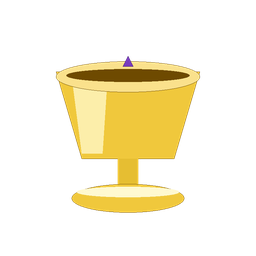
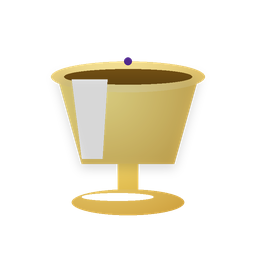
feat(olympus): 符号改为简洁球体渐变风格 PNG，前端切换 img 引用

Changed region(s): [[0.1875, 0.25, 0.8125, 0.8438], [0.3438, 0.2188, 0.6562, 0.2812]]

diff --git a/src/js/game-detail.js b/src/js/game-detail.js
@@ -357,37 +357,7 @@
     '</svg>';
   }
 
-  function polar(cx,cy,r,d){var a=(d-90)*Math.PI/180;return [cx+r*Math.cos(a),cy+r*Math.sin(a)];}
-  function fmt(p){return p[0].toFixed(2)+','+p[1].toFixed(2);}
-  function svgGem(c){var cx=32,cy=32,ro=26,rt=12,o=[],t=[];for(var i=0;i<8;i++){o.push(polar(cx,cy,ro,i*45));t.push(polar(cx,cy,rt,i*45));}
-    var s='<svg viewBox="0 0 64 64" aria-hidden="true">';for(var i=0;i<8;i++){var j=(i+1)%8;s+='<polygon points="'+fmt(t[i])+' '+fmt(t[j])+' '+fmt(o[j])+' '+fmt(o[i])+'" fill="'+c.f[i]+'" stroke="'+c.e+'" stroke-width=".3" stroke-linejoin="round"/>';}
-    var tp='';for(var k=0;k<8;k++)tp+=fmt(t[k])+' ';s+='<polygon points="'+tp.trim()+'" fill="'+c.t+'"/>';
-    s+='<polygon points="'+fmt(t[5])+' '+fmt(t[6])+' '+fmt(t[7])+' 32,32" fill="#fff" opacity=".28"/><polygon points="'+fmt(t[1])+' '+fmt(t[2])+' '+fmt(t[3])+' 32,32" fill="#000" opacity=".12"/>';
-    var op='';for(var m=0;m<8;m++)op+=fmt(o[m])+' ';s+='<polygon points="'+op.trim()+'" fill="none" stroke="'+c.e+'" stroke-width="1.1" stroke-linejoin="round"/><polyline points="'+fmt(o[6])+' '+fmt(o[7])+'" fill="none" stroke="#fff" stroke-width="1.2" opacity=".6" stroke-linecap="round"/></svg>';return s;}
-  var G={red:{t:'#FFC4CD',f:['#FF6B7A','#E63950','#C11030','#8B0A22','#5A0616','#8B0A22','#C11030','#E63950'],e:'#3A0008'},purple:{t:'#DCC8FF',f:['#C098FF','#9B5DE5','#7A3FD1','#5B2BA8','#3D1B6E','#5B2BA8','#7A3FD1','#9B5DE5'],e:'#1A0A3D'},blue:{t:'#B8DEFF',f:['#6BC0FF','#2196F3','#0D6FD1','#0D47A1','#062A66','#0D47A1','#0D6FD1','#2196F3'],e:'#031843'},green:{t:'#C8F0C0',f:['#7CD17E','#43A047','#2E8B33','#1B5E20','#0A3310','#1B5E20','#2E8B33','#43A047'],e:'#052008'},yellow:{t:'#FFEDB0',f:['#FFD84D','#FFC107','#D9A000','#B8860B','#8A6600','#B8860B','#D9A000','#FFC107'],e:'#3D2900'}};
-  function polar(cx,cy,r,d){var a=(d-90)*Math.PI/180;return [cx+r*Math.cos(a),cy+r*Math.sin(a)];}
-  function fmt(p){return p[0].toFixed(2)+','+p[1].toFixed(2);}
-  function svgGem(c){var cx=32,cy=32,ro=26,rt=13,N=12,o=[],t=[];for(var i=0;i<N;i++){o.push(polar(cx,cy,ro,i*(360/N)));t.push(polar(cx,cy,rt,i*(360/N)));}
-    var s='<svg viewBox="0 0 64 64" aria-hidden="true" filter="url(#gdg-shadow)">';
-    for(var i=0;i<N;i++){var j=(i+1)%N;
-      var seg=[c.f[i%c.f.length],c.f[(i+1)%c.f.length]][i%2];
-      s+='<polygon points="'+fmt(t[i])+' '+fmt(t[j])+' '+fmt(o[j])+' '+fmt(o[i])+'" fill="'+seg+'" stroke="'+c.e+'" stroke-width=".3" stroke-linejoin="round"/>';}
-    var tp='';for(var k=0;k<N;k++)tp+=fmt(t[k])+' ';
-    s+='<polygon points="'+tp.trim()+'" fill="'+c.t+'" stroke="'+c.e+'" stroke-width=".4"/>';
-    s+='<polygon points="'+tp.trim()+'" fill="url(#gdg-gemface)"/>';
-    s+='<polyline points="'+fmt(t[N-2])+' '+fmt(t[N-1])+'" fill="none" stroke="#fff" stroke-width="1.4" opacity=".55" stroke-linecap="round"/>';
-    var op='';for(var m=0;m<N;m++)op+=fmt(o[m])+' ';
-    s+='<polygon points="'+op.trim()+'" fill="none" stroke="'+c.e+'" stroke-width="1.1" stroke-linejoin="round"/>';
-    s+='<polyline points="'+fmt(o[N-2])+' '+fmt(o[N-1])+'" fill="none" stroke="#fff" stroke-width="1.2" opacity=".55" stroke-linecap="round"/></svg>';return s;}
-  var G={red:{t:'#FFC4CD',f:['#FF6B7A','#E63950','#C11030','#8B0A22'],e:'#3A0008'},purple:{t:'#DCC8FF',f:['#C098FF','#9B5DE5','#7A3FD1','#5B2BA8'],e:'#1A0A3D'},blue:{t:'#B8DEFF',f:['#6BC0FF','#2196F3','#0D6FD1','#0D47A1'],e:'#031843'},green:{t:'#C8F0C0',f:['#7CD17E','#43A047','#2E8B33','#1B5E20'],e:'#052008'},yellow:{t:'#FFEDB0',f:['#FFD84D','#FFC107','#D9A000','#B8860B'],e:'#3D2900'}};
-  var SYMBOL_SVG = {
-    zeus:'<svg viewBox="0 0 64 64" aria-hidden="true" filter="url(#gdg-shadow)"><circle cx="32" cy="32" r="29" fill="url(#gdg-disc-purple)"/><circle cx="32" cy="32" r="29" fill="none" stroke="url(#gdg-metal-gold)" stroke-width="1.8"/><circle cx="32" cy="32" r="26" fill="none" stroke="#FFF4C8" stroke-width=".5" opacity=".45"/><ellipse cx="32" cy="34" rx="12" ry="14" fill="#F2D9B0"/><ellipse cx="32" cy="34" rx="12" ry="14" fill="none" stroke="#B08640" stroke-width=".5"/><ellipse cx="26.5" cy="31" rx="1.4" ry="1.7" fill="#3A2200"/><ellipse cx="37.5" cy="31" rx="1.4" ry="1.7" fill="#3A2200"/><circle cx="27" cy="30.5" r=".4" fill="#fff" opacity=".8"/><circle cx="38" cy="30.5" r=".4" fill="#fff" opacity=".8"/><path d="M32 31 L30.5 35 L33.5 35" fill="none" stroke="#8B6508" stroke-width=".8" stroke-linecap="round"/><path d="M21 38 Q23 46 32 47 Q41 46 43 38 Q38 42 32 41 Q26 42 21 38" fill="#FFF8E8"/><path d="M23 42 Q26 46 32 46.5 Q38 46 41 42" fill="none" stroke="#D4C8B0" stroke-width=".5"/><path d="M22 22 L23 13 L27 18 L32 10 L37 18 L41 13 L42 22 Z" fill="url(#gdg-metal-gold)" stroke="#6B4A00" stroke-width=".7" stroke-linejoin="round"/><circle cx="32" cy="15" r="1.6" fill="#E74C3C"/><circle cx="31.5" cy="14.5" r=".6" fill="#fff" opacity=".85"/><g transform="translate(44,8) rotate(-12)"><path d="M0 0 L-4 6 L-1 6 L-2 12 L4 4 L1 4 L2 0 Z" fill="#FFF8C8" stroke="#6B4A00" stroke-width=".5" stroke-linejoin="round"/></g><ellipse cx="22" cy="20" rx="5" ry="2.5" fill="#fff" opacity=".2"/></svg>',
-    crown:'<svg viewBox="0 0 64 64" aria-hidden="true" filter="url(#gdg-shadow)"><path d="M13 28 Q13 21 18 21 L46 21 Q51 21 51 28 L51 34 L13 34 Z" fill="#8B1538"/><path d="M17 23 L47 23 M17 27 L47 27 M17 31 L47 31" stroke="#6E0F2A" stroke-width=".45" opacity=".7"/><path d="M7 48 L12 26 L21 36 L32 14 L43 36 L52 26 L57 48 Z" fill="url(#gdg-metal-gold-diag)" stroke="#6B4A00" stroke-width="1.1" stroke-linejoin="round"/><path d="M12 26 L21 36 L32 14 L43 36 L52 26 L50 21 L43 32 L32 10 L21 32 L14 21 Z" fill="#FFF4C8" opacity=".5"/><rect x="6" y="45" width="52" height="9" rx="3" fill="url(#gdg-metal-gold)" stroke="#6B4A00" stroke-width="1"/><line x1="9" y1="50" x2="55" y2="50" stroke="#8B6508" stroke-width=".5" opacity=".55"/><circle cx="32" cy="50" r="3" fill="#D91E36" stroke="#5A0010" stroke-width=".5"/><circle cx="32" cy="49.3" r="1.4" fill="#FFB0BD" opacity=".65"/><circle cx="18" cy="50" r="2.2" fill="#6A3FBF" stroke="#3D1F7A" stroke-width=".5"/><circle cx="46" cy="50" r="2.2" fill="#6A3FBF" stroke="#3D1F7A" stroke-width=".5"/><circle cx="32" cy="14" r="2.6" fill="#FFE580" stroke="#6B4A00" stroke-width=".6"/><circle cx="31.2" cy="13.2" r="1.1" fill="#fff" opacity=".75"/><path d="M17 27 L18.5 42" stroke="#fff" stroke-width="1.8" opacity=".38" stroke-linecap="round"/><path d="M21 30 L22 40" stroke="#fff" stroke-width="1.2" opacity=".25" stroke-linecap="round"/></svg>',
-    chalice:'<svg viewBox="0 0 64 64" aria-hidden="true" filter="url(#gdg-shadow)"><ellipse cx="32" cy="14" rx="18" ry="3" fill="#3A2200" stroke="#6B4A00" stroke-width=".6"/><ellipse cx="32" cy="14" rx="16" ry="2.1" fill="#6B4A00" opacity=".85"/><path d="M14 14 L50 14 Q48 36 32 38 Q16 36 14 14 Z" fill="url(#gdg-metal-gold-diag)" stroke="#6B4A00" stroke-width="1.1" stroke-linejoin="round"/><ellipse cx="32" cy="14" rx="18" ry="3" fill="none" stroke="url(#gdg-metal-gold)" stroke-width="1.5"/><path d="M19 17 Q19 31 30 35" fill="none" stroke="#FFF4C8" stroke-width="2" opacity=".75" stroke-linecap="round"/><path d="M23 20 Q25 25 23 30" fill="none" stroke="#8B6508" stroke-width=".75" opacity=".85"/><path d="M32 20 L32 34" fill="none" stroke="#8B6508" stroke-width=".6" opacity=".65"/><path d="M41 20 Q39 25 41 30" fill="none" stroke="#8B6508" stroke-width=".75" opacity=".85"/><path d="M26 23 Q32 25.5 38 23" fill="none" stroke="#8B6508" stroke-width=".65" opacity=".7"/><rect x="30" y="38" width="4" height="9" fill="url(#gdg-metal-gold)" stroke="#6B4A00" stroke-width=".6"/><circle cx="32" cy="42" r="1.5" fill="#FFF4C8" opacity=".7"/><ellipse cx="32" cy="50" rx="15" ry="3.6" fill="url(#gdg-metal-gold)" stroke="#6B4A00" stroke-width="1"/><ellipse cx="32" cy="48.4" rx="12.5" ry="2.1" fill="#FFF4C8" opacity=".5"/><circle cx="32" cy="11" r="2.4" fill="#6A3FBF" stroke="#3D1F7A" stroke-width=".5"/><circle cx="31.2" cy="10.2" r="1" fill="#fff" opacity=".8"/></svg>',
-    ring:'<svg viewBox="0 0 64 64" aria-hidden="true" filter="url(#gdg-shadow)"><ellipse cx="32" cy="43" rx="19" ry="15" fill="none" stroke="url(#gdg-metal-gold-diag)" stroke-width="6"/><ellipse cx="32" cy="43" rx="19" ry="15" fill="none" stroke="#6B4A00" stroke-width="1"/><ellipse cx="32" cy="43" rx="15" ry="11.5" fill="none" stroke="#8B6508" stroke-width=".55" opacity=".6"/><ellipse cx="32" cy="43" rx="22.5" ry="18.4" fill="none" stroke="#8B6508" stroke-width=".55" opacity=".6"/><path d="M13 43 Q12 29 21 27" fill="none" stroke="#FFF4C8" stroke-width="1.5" opacity=".85" stroke-linecap="round"/><path d="M51 43 Q52 57 43 58" fill="none" stroke="#6B4A00" stroke-width="1.3" opacity=".55" stroke-linecap="round"/><path d="M22 21 L27 11 L37 11 L42 21 L37 26 L27 26 Z" fill="url(#gdg-metal-gold)" stroke="#6B4A00" stroke-width=".9" stroke-linejoin="round"/><polygon points="32,4 42,15 32,26 22,15" fill="url(#gdg-ruby)" stroke="#3A0008" stroke-width="1" stroke-linejoin="round"/><polygon points="32,4 42,15 32,26 22,15" fill="url(#gdg-gemface)"/><polygon points="32,4 37,15 32,20 27,15" fill="#fff" opacity=".38"/><polygon points="22,15 27,15 32,26 27,20" fill="#5A0616" opacity=".4"/><path d="M27 11 Q32 9 37 11" stroke="#fff" stroke-width=".6" opacity=".5" fill="none"/></svg>',
-    hourglass:'<svg viewBox="0 0 64 64" aria-hidden="true" filter="url(#gdg-shadow)"><rect x="12" y="4" width="40" height="7" rx="2" fill="url(#gdg-metal-gold-diag)" stroke="#6B4A00" stroke-width=".9"/><rect x="12" y="53" width="40" height="7" rx="2" fill="url(#gdg-metal-gold-diag)" stroke="#6B4A00" stroke-width=".9"/><line x1="15" y1="7.5" x2="49" y2="7.5" stroke="#FFF4C8" stroke-width=".6" opacity=".75"/><line x1="15" y1="56.5" x2="49" y2="56.5" stroke="#FFF4C8" stroke-width=".6" opacity=".75"/><path d="M18 11 Q18 27 32 32 Q46 27 46 11 Z" fill="#CDE8FF" opacity=".9" stroke="#6B4A00" stroke-width=".8"/><path d="M18 53 Q18 37 32 32 Q46 37 46 53 Z" fill="#CDE8FF" opacity=".9" stroke="#6B4A00" stroke-width=".8"/><path d="M21 13 Q21 26 32 31 Q43 26 43 13 Z" fill="url(#gdg-metal-gold)" opacity=".95"/><path d="M24 13 Q24 23 32 29 Q40 23 40 13 Z" fill="#FFF4C8" opacity=".75"/><path d="M21 51 Q21 41 32 33 Q43 41 43 51 Z" fill="url(#gdg-metal-gold)" opacity=".95"/><path d="M25 51 Q25 44 32 37 Q39 44 39 51 Z" fill="#FFF4C8" opacity=".6"/><line x1="32" y1="31" x2="32" y2="38" stroke="#F5D77B" stroke-width="1.8" stroke-linecap="round"/><circle cx="32" cy="35" r=".9" fill="#FFF4C8"/><path d="M22 15 Q22 24 27 29" fill="none" stroke="#fff" stroke-width="1.3" opacity=".9" stroke-linecap="round"/><path d="M22 49 Q22 42 27 37" fill="none" stroke="#fff" stroke-width="1.1" opacity=".65" stroke-linecap="round"/></svg>',
-    'gem-red':svgGem(G.red),'gem-purple':svgGem(G.purple),'gem-blue':svgGem(G.blue),'gem-green':svgGem(G.green),'gem-yellow':svgGem(G.yellow)
-  };
+
 
   var GAME_DETAILS = {
     olympus: {
@@ -429,7 +399,7 @@
       for (var si = 0; si < data.symbols.length; si++) {
         var sym = data.symbols[si];
         sh += '<div class="gd-symbol" role="img" aria-label="' + sym.name + '">' +
-                '<div class="gd-symbol-icon">' + (SYMBOL_SVG[sym.id] || '') + '</div>' +
+                '<div class="gd-symbol-icon"><img src="/assets/games/olympus/symbols/' + sym.id + '.png" alt="' + sym.name + '" loading="lazy"></div>' +
                 '<div class="gd-symbol-name">' + sym.name + '</div>' +
               '</div>';
       }

diff --git a/src/css/game-detail.css b/src/css/game-detail.css
@@ -442,3 +442,6 @@ body {
 .gd-paysym-name { font-size: 13px; color: var(--gd-text); font-weight: 500; }
 .gd-payval { font-variant-numeric: tabular-nums; font-weight: 600; text-align: center; color: var(--gd-text); }
 .gd-payval.is-top { color: var(--gd-text); }
+
+.gd-symbol-icon img { width: 100%; height: 100%; object-fit: contain; display: block; }
+.gd-paysym img { width: 24px; height: 24px; object-fit: contain; display: block; flex: 0 0 auto; }

diff --git a/scripts/gen-symbols-v3.py b/scripts/gen-symbols-v3.py
@@ -1,0 +1,174 @@
+#!/usr/bin/env python3
+import os, math
+import numpy as np
+from PIL import Image, ImageDraw, ImageFilter
+
+SIZE = 256; SS = 3; W = SIZE*SS
+OUT  = 'assets/games/olympus/symbols'
+os.makedirs(OUT, exist_ok=True)
+
+def canvas(): return Image.new('RGBA', (W,W), (0,0,0,0))
+
+def radial(inner, outer, cx=.42, cy=.38, r=.72, p=1.15):
+    y, x = np.mgrid[0:W, 0:W].astype(float)
+    d = np.clip(np.sqrt(((x/W)-cx)**2 + ((y/W)-cy)**2) / r, 0, 1) ** p
+    a = np.array(inner, float); b = np.array(outer, float)
+    o = a[None,None,:]*(1-d[...,None]) + b[None,None,:]*d[...,None]
+    return Image.fromarray(o.astype(np.uint8), 'RGB')
+
+def poly(pts):
+    m = Image.new('L',(W,W),0); ImageDraw.Draw(m).polygon(pts, fill=255); return m
+
+def ell(box):
+    m = Image.new('L',(W,W),0); ImageDraw.Draw(m).ellipse(box, fill=255); return m
+
+def paste(c, layer, mask): c.paste(layer, (0,0), mask)
+
+def shadow(c, mask, dy=W*.018, blur=W*.020, op=55):
+    s = Image.new('RGBA',(W,W),(0,0,0,0))
+    s.paste((0,0,0,op), (0,int(dy)), mask)
+    s = s.filter(ImageFilter.GaussianBlur(blur))
+    c.alpha_composite(s)
+
+def shine(c, mask, a=140, blur=W*.008):
+    h = Image.new('RGBA',(W,W),(255,255,255,a)).filter(ImageFilter.GaussianBlur(blur))
+    c.paste(h, (0,0), mask)
+
+def save(img, n):
+    img.resize((SIZE,SIZE), Image.LANCZOS).save(os.path.join(OUT, n+'.png'))
+    print('  ->', n+'.png')
+
+# ---------- 宙斯：紫盘 + 金闪电 ----------
+def zeus():
+    c = canvas(); cx = cy = W/2; R = W*.44
+    m = ell([cx-R, cy-R, cx+R, cy+R])
+    paste(c, radial((150,110,215),(55,20,105),.40,.34), m)
+    edge = Image.new('L',(W,W),0)
+    ImageDraw.Draw(edge).ellipse([cx-R, cy-R, cx+R, cy+R], outline=255, width=int(W*.020))
+    paste(c, radial((255,240,160),(190,130,25),.4,.4,.9), edge)
+    bolt = [(cx, cy-R*.62),(cx-R*.30, cy+R*.05),(cx-R*.08, cy+R*.05),
+            (cx-R*.28, cy+R*.62),(cx+R*.32, cy-R*.10),(cx+R*.08, cy-R*.10),(cx+R*.22, cy-R*.62)]
+    bm = poly(bolt)
+    paste(c, radial((255,250,200),(210,160,30),.4,.2,.6), bm)
+    hl = poly([(cx-R*.20,cy-R*.50),(cx,cy-R*.55),(cx-R*.18,cy+R*.00),(cx-R*.35,cy+R*.02)])
+    shine(c, hl, 180, W*.005)
+    hm = ell([cx-R*.78, cy-R*.78, cx-R*.30, cy-R*.30])
+    shine(c, hm, 90, W*.014)
+    shadow(c, ell([cx-R*.85, cy+R*.88, cx+R*.85, cy+R*1.10]), op=50)
+    save(c, 'zeus')
+
+# ---------- 金冠 ----------
+def crown():
+    c = canvas()
+    cloth = poly([(W*.18,W*.55),(W*.82,W*.55),(W*.82,W*.70),(W*.18,W*.70)])
+    paste(c, radial((160,30,60),(95,10,35),.5,.4,.7), cloth)
+    pts = [(W*.10,W*.72),(W*.16,W*.38),(W*.30,W*.55),(W*.40,W*.24),
+           (W*.50,W*.48),(W*.60,W*.24),(W*.70,W*.55),(W*.84,W*.38),(W*.90,W*.72)]
+    m = poly(pts)
+    paste(c, radial((255,240,150),(195,135,25),.4,.35,.78), m)
+    base = poly([(W*.10,W*.70),(W*.90,W*.70),(W*.90,W*.82),(W*.10,W*.82)])
+    paste(c, radial((255,225,120),(175,115,18),.4,.4,.85), base)
+    hl = poly([(W*.16,W*.38),(W*.30,W*.55),(W*.50,W*.48),(W*.50,W*.54),
+               (W*.30,W*.61),(W*.16,W*.44)])
+    shine(c, hl, 160, W*.005)
+    for cx_, col in [(W*.22,(140,60,200)),(W*.50,(220,30,55)),(W*.78,(140,60,200))]:
+        gm = ell([cx_-W*.030, W*.725, cx_+W*.030, W*.775])
+        paste(c, radial(col,(60,20,80) if col[0]<180 else (120,10,30),.5,.5,.06), gm)
+        hg = ell([cx_-W*.012, W*.730, cx_+W*.006, W*.742])
+        shine(c, hg, 220, W*.002)
+    tm = ell([W*.485, W*.215, W*.515, W*.245])
+    paste(c, radial((255,235,150),(200,150,30),.5,.5,.1), tm)
+    shadow(c, poly(pts), op=48)
+    save(c, 'crown')
+
+# ---------- 圣杯 ----------
+def chalice():
+    c = canvas()
+    cup = poly([(W*.22,W*.28),(W*.78,W*.28),(W*.68,W*.64),(W*.32,W*.64)])
+    paste(c, radial((255,240,150),(185,125,22),.4,.35,.78), cup)
+    rim = ell([W*.20,W*.24,W*.80,W*.36])
+    paste(c, radial((255,245,180),(205,155,45),.45,.45,.65), rim)
+    rim_in = ell([W*.25,W*.27,W*.75,W*.33])
+    paste(c, Image.new('RGB',(W,W),(115,80,20)), rim_in)
+    hl = poly([(W*.28,W*.31),(W*.42,W*.31),(W*.40,W*.62),(W*.32,W*.62)])
+    shine(c, hl, 130, W*.006)
+    stem = poly([(W*.46,W*.64),(W*.54,W*.64),(W*.54,W*.76),(W*.46,W*.76)])
+    paste(c, radial((255,235,140),(200,150,30),.4,.4,.6), stem)
+    base = ell([W*.28,W*.74,W*.72,W*.84])
+    paste(c, radial((255,240,150),(185,125,22),.4,.4,.72), base)
+    base_hl = ell([W*.32,W*.755,W*.60,W*.785])
+    shine(c, base_hl, 130, W*.004)
+    tm = ell([W*.485,W*.225,W*.515,W*.255])
+    paste(c, radial((200,150,255),(80,40,140),.5,.5,.1), tm)
+    shadow(c, cup, op=40)
+    save(c, 'chalice')
+
+# ---------- 神戒 ----------
+def ring():
+    c = canvas(); cx = W/2; cy = W/2 + W*.10
+    rx, ry = W*.32, W*.26; rw = int(W*.075)
+    m = Image.new('L',(W,W),0)
+    ImageDraw.Draw(m).ellipse([cx-rx,cy-ry,cx+rx,cy+ry], outline=255, width=rw)
+    paste(c, radial((255,235,140),(185,125,22),.4,.4,.9), m)
+    ha = Image.new('RGBA',(W,W),(0,0,0,0))
+    ImageDraw.Draw(ha).arc([cx-rx,cy-ry,cx+rx,cy+ry],200,260,fill=(255,250,220,200),width=int(W*.016))
+    c.alpha_composite(ha.filter(ImageFilter.GaussianBlur(W*.006)))
+    base = poly([(cx-W*.10,cy-ry),(cx-W*.06,cy-ry-W*.14),(cx+W*.06,cy-ry-W*.14),(cx+W*.10,cy-ry)])
+    paste(c, radial((255,235,140),(200,150,30),.4,.3,.4), base)
+    gy = cy - ry - W*.14; gr = W*.085
+    gm = poly([(cx,gy-gr),(cx+gr,gy),(cx,gy+gr),(cx-gr,gy)])
+    paste(c, radial((255,180,220),(200,30,90),.5,.35,.55), gm)
+    shine(c, poly([(cx-gr*.5,gy-gr*.3),(cx+gr*.1,gy-gr*.6),(cx+gr*.2,gy-gr*.2)]), 180, W*.003)
+    shadow(c, m, op=40)
+    save(c, 'ring')
+
+# ---------- 沙漏 ----------
+def hourglass():
+    c = canvas()
+    top = poly([(W*.18,W*.10),(W*.82,W*.10),(W*.82,W*.18),(W*.18,W*.18)])
+    bot = poly([(W*.18,W*.82),(W*.82,W*.82),(W*.82,W*.90),(W*.18,W*.90)])
+    for m in (top, bot):
+        paste(c, radial((255,235,140),(190,130,25),.4,.4,.6), m)
+    glass = poly([(W*.28,W*.18),(W*.72,W*.18),(W*.50,W*.50),(W*.72,W*.82),(W*.28,W*.82),(W*.50,W*.50)])
+    paste(c, Image.new('RGB',(W,W),(205,232,255)), glass)
+    sand_top = poly([(W*.32,W*.22),(W*.68,W*.22),(W*.50,W*.46)])
+    paste(c, radial((255,235,140),(200,150,30),.5,.3,.4), sand_top)
+    sand_bot = poly([(W*.32,W*.78),(W*.68,W*.78),(W*.50,W*.55)])
+    paste(c, radial((255,240,160),(210,160,40),.5,.7,.4), sand_bot)
+    ImageDraw.Draw(c).line([(W*.50,W*.48),(W*.50,W*.55)], fill=(255,235,150), width=int(W*.012))
+    ha = Image.new('RGBA',(W,W),(0,0,0,0)); hd = ImageDraw.Draw(ha)
+    hd.line([(W*.34,W*.24),(W*.40,W*.42)], fill=(255,255,255,200), width=int(W*.012))
+    hd.line([(W*.34,W*.76),(W*.40,W*.60)], fill=(255,255,255,140), width=int(W*.010))
+    c.alpha_composite(ha.filter(ImageFilter.GaussianBlur(W*.004)))
+    shadow(c, Image.new('L',(W,W),255), op=28)
+    save(c, 'hourglass')
+
+# ---------- 6 切面宝石 ----------
+def gem(name, light, mid, dark, edge, rim):
+    c = canvas(); cx = cy = W/2; R = W*.42
+    pts = [(cx+R*math.cos(math.radians(i*60-90)), cy+R*math.sin(math.radians(i*60-90))) for i in range(6)]
+    m = poly(pts)
+    paste(c, radial(light, dark, .40, .35, .78), m)
+    inner = [(cx+R*.5*math.cos(math.radians(i*60-90)), cy+R*.5*math.sin(math.radians(i*60-90))) for i in range(6)]
+    paste(c, radial(mid, light, .40, .30, .5), poly(inner))
+    d = ImageDraw.Draw(c)
+    for i in range(6):
+        d.line([pts[i], pts[(i+1)%6]], fill=edge+(140,), width=int(W*.004))
+        d.line([(cx,cy), pts[i]], fill=edge+(90,), width=int(W*.003))
+    shine(c, poly([(cx-R*.55,cy-R*.55),(cx-R*.05,cy-R*.65),
+                   (cx-R*.10,cy-R*.20),(cx-R*.55,cy-R*.30)]), 140, W*.010)
+    f = Image.new('L',(W,W),0)
+    ImageDraw.Draw(f).polygon(pts, outline=255, width=int(W*.008))
+    f = f.filter(ImageFilter.GaussianBlur(W*.006))
+    c.paste(Image.new('RGBA',(W,W),rim+(180,)), (0,0), f)
+    shadow(c, m, op=42)
+    save(c, name)
+
+print('生成 v3 符号…')
+zeus(); crown(); chalice(); ring(); hourglass()
+gem('gem-red',    (255,180,190),(255,120,140),(140,10,30),(60,0,10),(255,100,130))
+gem('gem-purple', (220,180,255),(180,120,255),(70,25,150),(30,10,60),(180,140,255))
+gem('gem-blue',   (180,220,255),(100,180,255),(20,60,160),(10,25,70),(140,200,255))
+gem('gem-green',  (200,255,200),(120,230,140),(25,110,40),(10,45,20),(150,255,170))
+gem('gem-yellow', (255,245,180),(255,220,120),(170,120,20),(60,40,5),(255,230,140))
+print('==V3-OK==')
